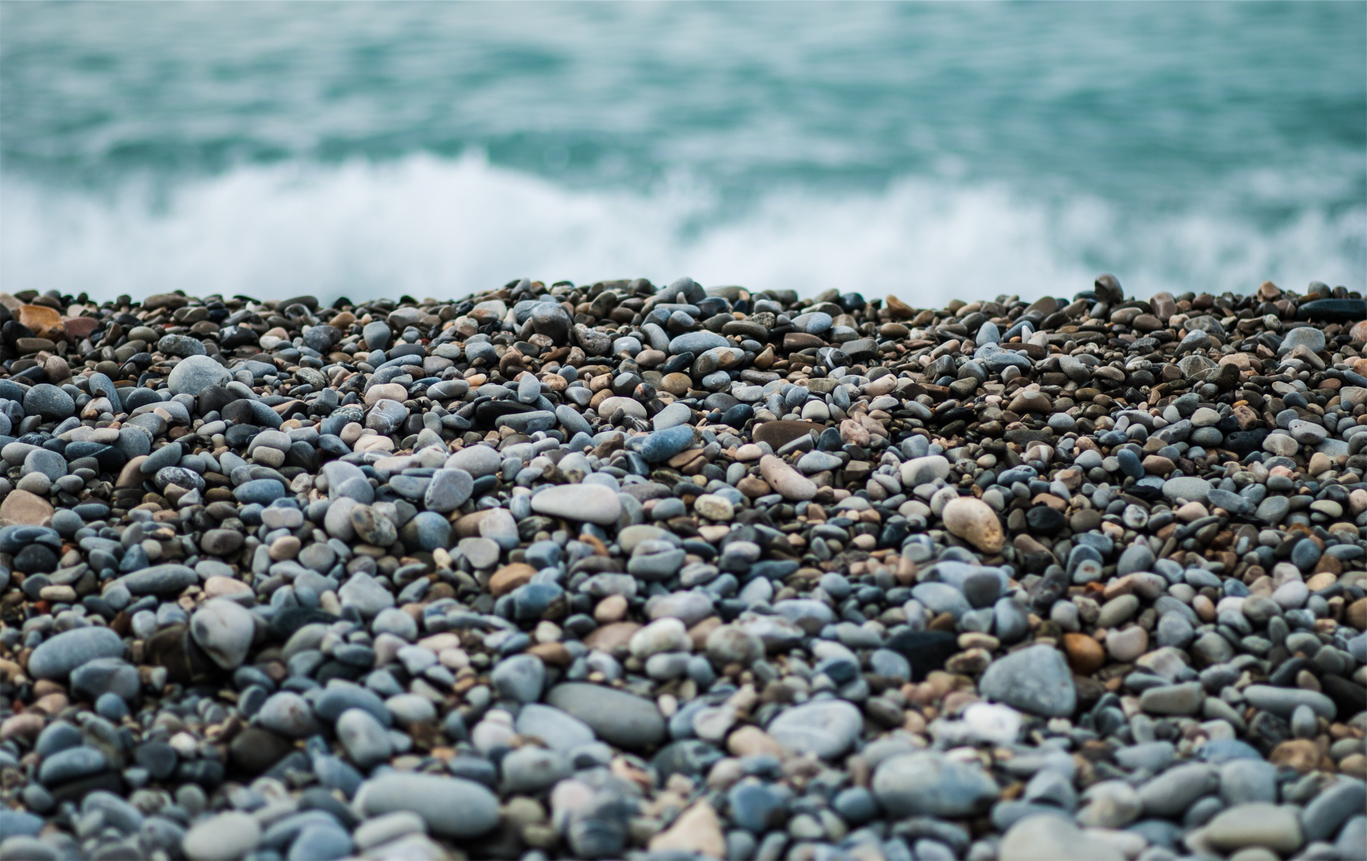
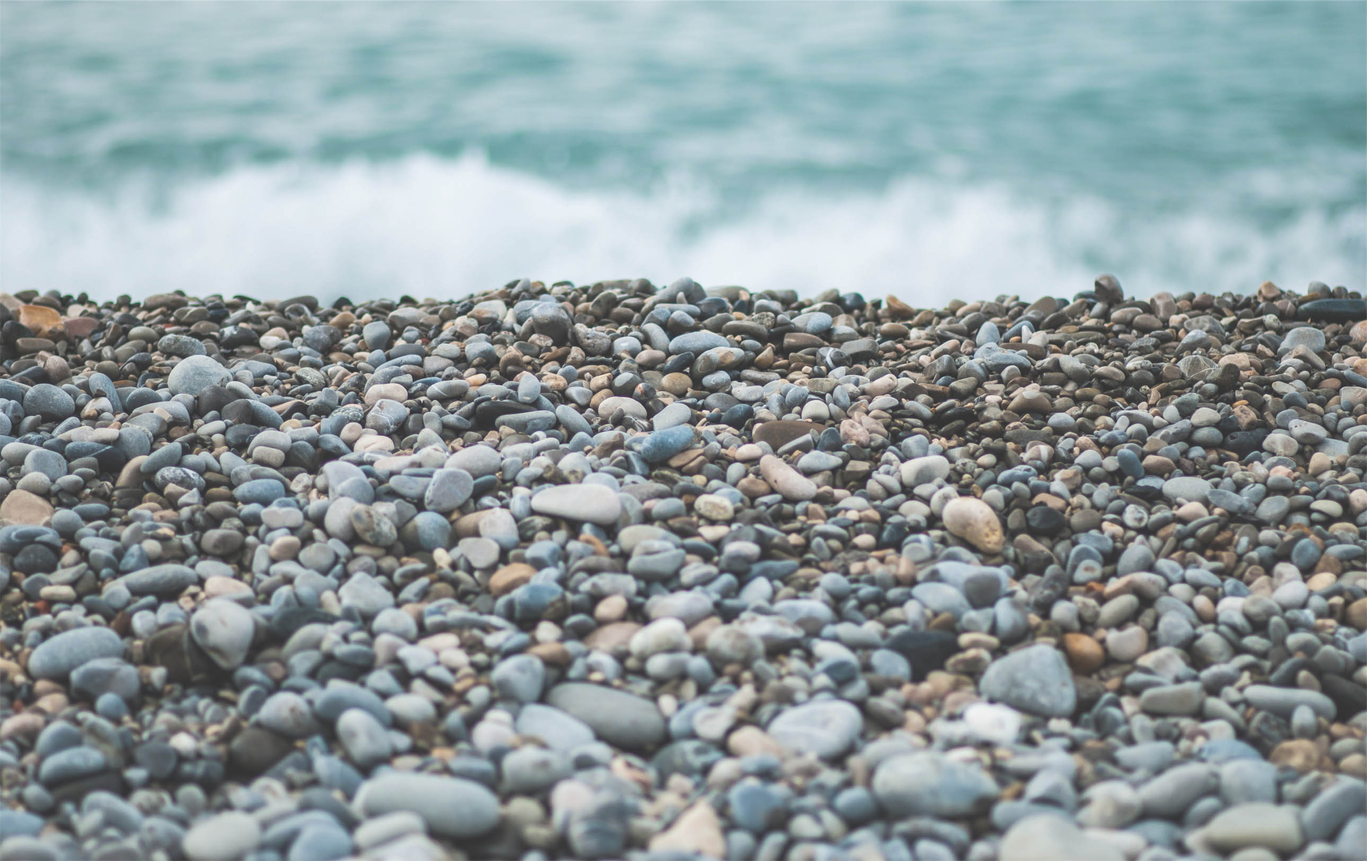
refractor: (css) change opacity of background
lower opacity of background image in photoshop

diff --git a/css/style.css b/css/style.css
@@ -1,1 +1,1 @@
-@font-face{font-family:'iconic-font';src:url('../font/iconic-font.eot?5589718');src:url('../font/iconic-font.eot?5589718#iefix') format('embedded-opentype'),url('../font/iconic-font.woff?5589718') format('woff'),url('../font/iconic-font.ttf?5589718') format('truetype'),url('../font/iconic-font.svg?5589718#iconic-font') format('svg');font-weight:normal;font-style:normal;}[class^="icon-"]:before,[class*=" icon-"]:before{font-family:"iconic-font";font-style:normal;font-weight:normal;speak:none;display:inline-block;text-decoration:inherit;width:1em;margin-right:0.2em;text-align:center;font-variant:normal;text-transform:none;line-height:1em;margin-left:0.2em}.icon-arrow-down:before{content:'\d'}.icon-comment:before{content:'\ce'}.icon-arrow-left:before{content:'\ef'}.icon-search:before{content:'\e801'}.icon-logo-small-frame:before{content:'\e803'}.icon-logo-small-bw:before{content:'\e804'}.icon-logo-long:before{content:'\e805'}.icon-location-pin:before{content:'\e806'}.icon-arrow-right:before{content:'\e807'}.icon-arrow-up:before{content:'\e808'}.icon-exit-circle:before{content:'\e80a'}.icon-exit:before{content:'\e80b'}.icon-headline:before{content:'\e80c'}.icon-light:before{content:'\e80d'}.icon-gears:before{content:'\e80e'}.icon-phone:before{content:'\e80f'}.icon-icon-5:before{content:'\e810'}.icon-point:before{content:'\e811'}.icon-target:before{content:'\e812'}@-moz-viewport{width:device-width;scale:1;}@-ms-viewport{width:device-width;scale:1;}@-o-viewport{width:device-width;scale:1;}@-webkit-viewport{width:device-width;scale:1;}@viewport{width:device-width;scale:1;}html{box-sizing:border-box;-moz-text-size-adjust:100%;-ms-text-size-adjust:100%;-webkit-text-size-adjust:100%;text-size-adjust:100%}*,*:before,*:after{box-sizing:inherit}body{margin:0;padding:0;font-family:'Lato',sans-serif;background-color:#FEFEFE}body.noscript .close-btn,body.noscript .toggle-btn{display:none}.flex-img{display:block;margin:0 auto;width:100%}header{position:fixed;height:5em;width:100%;z-index:100;background-color:#2d3e4f}.header-image{background:url("../images/water.jpg") no-repeat center top;background-size:cover;height:650px;margin-bottom:2em}h1{text-align:center;padding-top:6em;color:#FEFEFE;text-transform:uppercase}.subtitle{text-align:center;color:#FEFEFE;text-transform:uppercase}.contain{padding:0 2.5em}.toggle-btn{color:#FEFEFE;position:absolute;right:1em;top:2em}.list-heading{font-weight:300;font-size:0.75em;color:#FEFEFE;text-transform:uppercase;border-bottom:2px solid #FEFEFE;margin-top:2em}.navigation ul{background-color:#2d3e4f;margin:0;padding:0}.navigation ul li{list-style-type:none}.navigation ul li a{font-weight:300;color:#FEFEFE;text-transform:lowercase;text-decoration:none;display:block;padding-top:0.2em;padding-bottom:0.5em;text-align:center}.navigation ul li a:hover{color:#93A4A7}.toggle-btn,.close-btn{height:70px;width:70px}.toggle-btn span,.close-btn span{text-indent:100%;white-space:nowrap;overflow:hidden;display:block}.toggle-btn i,.close-btn i{padding:0.5em}.close-btn{color:#2d3e4f;margin:1em}.donate-btn{font-family:'Lato',sans-serif;color:#FEFEFE;text-transform:uppercase;text-decoration:none;display:block;text-align:center;margin:2em;padding:0.5em}.donate-btn:hover{color:#93A4A7}.logo{font-size:2.5rem;font-weight:500;color:#58aec4;text-decoration:none;display:block;text-align:center}.logo:hover{color:#FEFEFE}@media only screen and (max-width: 60em){.site-wrapper{position:relative;overflow:hidden;width:100%;z-index:100}.site-wrapper .sliding-canvas{width:100%;height:100%;position:relative;transition:translateX(0);-webkit-transition:all 300ms ease-in-out;-moz-transition:all 300ms ease-in-out;-ms-transition:all 300ms ease-in-out;-o-transition:all 300ms ease-in-out;transition:all 300ms ease-in-out}.site-wrapper[data-state="slide-open"] .sliding-canvas{transform:translateX(-100%)}.site-wrapper[data-state="slide-open"]{overflow:visible}.slide-menu{position:absolute;width:100%;height:100%;top:0;bottom:0;right:-100%}}@media only screen and (min-width: 60em){.toggle-btn,.close-btn{display:none}body.noscript .slide-menu{position:static;right:auto}.list-heading{border-bottom:0;margin-top:0}ul li{font-family:'Lato',sans-serif;font-weight:300;color:#93A4A7;text-transform:lowercase;text-decoration:none;text-align:center;margin-top:0.5em;padding:0.5em 2em;display:inline-block;position:relative;cursor:pointer;transition:all 0.2s}ul li:hover{color:#FEFEFE}ul li ul{padding:0;position:absolute;top:2.5em;left:0;width:150px;display:none;opacity:0;visibility:hidden;-transition:opacity 0.2s}ul li:hover ul{display:block;opacity:1;padding-bottom:1em;visibility:visible;background:#2d3e4f;text-align:left}.donate-btn{float:right;display:inline-block;padding:0.3em 1em;margin-top:1.7em;box-shadow:0 0 0 1.5px #fefefe;transition:all 150ms ease-in-out}.donate-btn:hover{color:#2d3e4f;background-color:#FEFEFE}}h2,h3,h5{text-transform:uppercase;text-align:center;color:#333}figcaption{margin-top:3em;margin-bottom:3em}.iconic{font-size:6em;color:#58aec4;text-decoration:none;display:block;text-align:center}.down{font-size:0.75em;color:#FEFEFE;transform:rotate(180deg)}.buttons{color:#58aec4;display:inline-block;text-decoration:none;text-transform:uppercase;padding:0.5em;margin-bottom:3em;text-align:center;box-shadow:0 0 0 1.5px #58aec4;transition:all 150ms ease-in-out}.buttons:hover{color:#FEFEFE;background-color:#58aec4}.donate h5{color:#58aec4}footer{background-color:#f9f9f9;color:#333334;font-family:'Lato',sans-serif;margin-top:3em}.row{padding-left:0;padding-right:0;display:block}.footer-grid{padding-left:1em;padding-right:1em}footer .footer-grid{padding-top:1.6em;padding-bottom:1.6em;border-top:1px solid #c9c9c9}footer a{color:#a6a6a9;text-decoration:none;-webkit-transition:all 10ms ease-in-out;-moz-transition:all 10ms ease-in-out;-ms-transition:all 10ms ease-in-out;-o-transition:all 10ms ease-in-out;transition:all 10ms ease-in-out}footer a:hover{color:#58aec4}li{line-height:1.6em;display:list-item;text-align:-webkit-match-parent}.text-right{text-align:right}.contact-info{font-size:0.7em;text-transform:uppercase}.contact{padding-bottom:2em;padding-right:0}@media only screen and (min-width: 600px){.row{display:flex;max-width:1440px}.footer-grid{-webkit-flex:1;-ms-flex:1;flex:1;padding:0 2.5em 1em}}.issue-image{background:url("../images/greatlakes-7.jpg") no-repeat center top;background-size:cover;height:650px;margin-bottom:2em}.subtitle-work{text-align:center;color:#FEFEFE;padding:0 2.5em}@media only screen and (min-width: 60em){.subtitle-work{padding:0 10em}}.round{border-radius:450px;max-height:10em;max-width:10em;margin-bottom:2.5em}.programs-image{background:url("../images/greatlakes-27.jpg") no-repeat center top;background-size:cover;height:650px;margin-bottom:2em}.education-image{background:url("../images/greatlakes-53.jpg") no-repeat center top;background-size:cover;height:650px;margin-bottom:2em}form{margin:0 auto;padding:30px;width:400px;height:auto;overflow:hidden;background:rgba(45,62,79,0.9);border-radius:10px}form label{font-size:14px;color:#FEFEFE;cursor:pointer}form label,form input{float:left;clear:both}form input{margin:15px 0;padding:15px 10px;width:100%;outline:none;border:1px solid #bbb;border-radius:20px;display:inline-block;-webkit-box-sizing:border-box;-moz-box-sizing:border-box;box-sizing:border-box;-webkit-transition:0.2s ease all;-moz-transition:0.2s ease all;-ms-transition:0.2s ease all;-o-transition:0.2s ease all;transition:0.2s ease all}form input[type=text]:focus,form input[type="password"]:focus{border-color:#003333}input[type=submit]{padding:15px 50px;width:auto;background:url("http://im51.gulfup.com/rkvDJI.jpg") center repeat #336666;background-size:200px;border:none;color:#FEFEFE;cursor:pointer;display:inline-block;float:right;clear:right;-webkit-transition:0.2s ease all;-moz-transition:0.2s ease all;-ms-transition:0.2s ease all;-o-transition:0.2s ease all;transition:0.2s ease all}input[type=submit]:hover{opacity:0.8}input[type="submit"]:active{opacity:0.4}.forgot,.register{margin:10px;float:left;clear:left;display:inline-block;color:#FEFEFE;text-decoration:none}.forgot:hover,.register:hover{color:#FEFEFE}.login-link{color:#93A4A7;text-decoration:none;margin:10px;float:left;clear:left;display:inline-block}.login-link:hover{color:#58aec4}.nav-jump-spacer{position:absolute;width:10px;height:10px;opacity:0;top:-7.2em}.about,.work,.news{position:relative}.hide{display:none}.login{padding-top:9em}.login-image{background:url("../images/greatlakes-56.jpg");background-size:cover;height:700px}.inline{display:inline-block;width:100%}html{font:normal 100%/1.5 Georgia,serif}@media only screen and (min-width: 60em){html{font-size:110%}}@media only screen and (min-width: 90em){html{font-size:120%}}@media only screen and (min-width: 120em){html{font-size:130%}}h1,h2,h3,h4,h5,h6,p,ul,ol,dl,dd,figure,blockquote,details,hr,fieldset,pre,table{margin:0 0 1.5rem}.yotta{font-size:2.2807rem;line-height:1.3154}.zetta{font-size:2.0273rem;line-height:1.4798}h1,.exa{font-size:1.802rem;line-height:1.6648}h2,.peta{font-size:1.6018rem;line-height:1.8729}h3,.tera{font-size:1.4238rem;line-height:1.0535}h4,.giga{font-size:1.2656rem;line-height:1.1852}h5,.mega{font-size:1.125rem;line-height:1.3333}h6,.kilo{font-size:1rem;line-height:1.5}small,.milli{font-size:0.8889rem;line-height:1.6875}.micro{font-size:0.7901rem;line-height:1.8984}sub,sup{font-size:75%;line-height:1px;position:relative;vertical-align:baseline}sup{top:-0.5em}sub{bottom:-0.25em}.text-left{text-align:left}.text-right{text-align:right}.center-align{text-align:center;max-width:35em;margin:0 auto;padding-bottom:2em}.upper{text-transform:uppercase}.normal{font-weight:normal}.bold{font-weight:bold}.italic{font-style:italic}.push{margin-bottom:1.5rem}.push-none,.push-0{margin-bottom:0}.push-double,.push-2{margin-bottom:3rem}.push-half,.push-1-2{margin-bottom:0.75rem}.push-quarter,.push-1-4{margin-bottom:0.375rem}.pad-top,.pad-t{padding-top:1.5rem}.pad-bottom,.pad-b{padding-bottom:1.5rem}.pad-top-double,.pad-t-2{padding-top:3rem}.pad-bottom-double,.pad-b-2{padding-bottom:3rem}.pad-top-half,.pad-t-1-2{padding-top:0.75rem}.pad-bottom-half,.pad-b-1-2{padding-bottom:0.75rem}.pad-top-quarter,.pad-t-1-4{padding-top:0.375rem}.pad-bottom-quarter,.pad-b-1-4{padding-bottom:0.375rem}.island{padding:1.5rem}.island-double,.island-2{padding:3rem}.island-half,.island-1-2{padding:0.75rem}.island-quarter,.island-1-4{padding:0.375rem}.gutter{padding-left:1.5rem;padding-right:1.5rem}.gutter-double,.gutter-2{padding-left:0.75rem;padding-right:0.75rem}@media only screen and (min-width: 30em){.gutter-double,.gutter-2{padding-left:3rem;padding-right:3rem}}.gutter-half,.gutter-1-2{padding-left:0.75rem;padding-right:0.75rem}.gutter-quarter,.gutter-1-4{padding-left:0.375rem;padding-right:0.375rem}.grid{margin:0;padding:0;letter-spacing:-0.31em;text-rendering:optimizespeed;display:-webkit-flex;-webkit-flex-flow:row wrap;display:-ms-flexbox;-ms-flex-flow:row wrap;display:flex;flex-flow:row wrap}.grid-bottom{-webkit-align-items:flex-end;-ms-align-items:flex-end;align-items:flex-end}.grid-middle{-webkit-align-items:center;-ms-align-items:center;align-items:center}.grid-stretch{-webkit-align-items:stretch;-ms-align-items:stretch;align-items:stretch}.opera-only :-o-prefocus,.grid{word-spacing:-0.43em}.unit{letter-spacing:normal;text-rendering:auto;vertical-align:top;word-spacing:normal;display:inline-block;visibility:visible}.grid-bottom .unit{vertical-align:bottom}.grid-middle .unit{vertical-align:middle}.unit[class*="push-"],.unit[class*="pull-"]{position:relative}.unit-xs-hidden{display:none;visibility:hidden}.unit-xs-centered{margin:0 auto}.unit-xs-1,.xs-1{display:block;visibility:visible;width:100%}.unit-offset-xs-0{margin-left:0}.unit-push-xs-0,.unit-pull-xs-0{left:0}.unit-xs-1-2,.xs-1-2{width:50%}.unit-offset-xs-1-2{margin-left:50%}.unit-push-xs-1-2{left:50%}.unit-pull-xs-1-2{left:-50%}.unit-xs-1-3,.xs-1-3{width:33.3333%}.unit-offset-xs-1-3{margin-left:33.3333%}.unit-push-xs-1-3{left:33.3333%}.unit-pull-xs-1-3{left:-33.3333%}.unit-xs-2-3,.xs-2-3{width:66.6667%}.unit-offset-xs-2-3{margin-left:66.6667%}.unit-push-xs-2-3{left:66.6667%}.unit-pull-xs-2-3{left:-66.6667%}.unit-xs-1-2,.xs-1-2,.unit-xs-1-3,.xs-1-3,.unit-xs-2-3,.xs-2-3{display:inline-block;visibility:visible}@media only screen and (min-width: 25em){.unit-s-hidden{display:none;visibility:hidden}.unit-s-centered{margin:0 auto}.unit-s-1,.s-1{display:block;visibility:visible;width:100%}.unit-offset-s-0{margin-left:0}.unit-push-s-0,.unit-pull-s-0{left:0}.unit-s-1-2,.s-1-2{width:50%}.unit-offset-s-1-2{margin-left:50%}.unit-push-s-1-2{left:50%}.unit-pull-s-1-2{left:-50%}.unit-s-1-3,.s-1-3{width:33.3333%}.unit-offset-s-1-3{margin-left:33.3333%}.unit-push-s-1-3{left:33.3333%}.unit-pull-s-1-3{left:-33.3333%}.unit-s-2-3,.s-2-3{width:66.6667%}.unit-offset-s-2-3{margin-left:66.6667%}.unit-push-s-2-3{left:66.6667%}.unit-pull-s-2-3{left:-66.6667%}.unit-s-1-2,.s-1-2,.unit-s-1-3,.s-1-3,.unit-s-2-3,.s-2-3{display:inline-block;visibility:visible}}@media only screen and (min-width: 38em){.unit-m-hidden{display:none;visibility:hidden}.unit-m-centered{margin:0 auto}.unit-m-1,.m-1{display:block;visibility:visible;width:100%}.unit-offset-m-0{margin-left:0}.unit-push-m-0,.unit-pull-m-0{left:0}.unit-m-1-2,.m-1-2{width:50%}.unit-offset-m-1-2{margin-left:50%}.unit-push-m-1-2{left:50%}.unit-pull-m-1-2{left:-50%}.unit-m-1-3,.m-1-3{width:33.3333%}.unit-offset-m-1-3{margin-left:33.3333%}.unit-push-m-1-3{left:33.3333%}.unit-pull-m-1-3{left:-33.3333%}.unit-m-2-3,.m-2-3{width:66.6667%}.unit-offset-m-2-3{margin-left:66.6667%}.unit-push-m-2-3{left:66.6667%}.unit-pull-m-2-3{left:-66.6667%}.unit-m-1-2,.m-1-2,.unit-m-1-3,.m-1-3,.unit-m-2-3,.m-2-3{display:inline-block;visibility:visible}}@media only screen and (min-width: 60em){.unit-l-hidden{display:none;visibility:hidden}.unit-l-centered{margin:0 auto}.unit-l-1,.l-1{display:block;visibility:visible;width:100%}.unit-offset-l-0{margin-left:0}.unit-push-l-0,.unit-pull-l-0{left:0}.unit-l-1-2,.l-1-2{width:50%}.unit-offset-l-1-2{margin-left:50%}.unit-push-l-1-2{left:50%}.unit-pull-l-1-2{left:-50%}.unit-l-1-3,.l-1-3{width:33.3333%}.unit-offset-l-1-3{margin-left:33.3333%}.unit-push-l-1-3{left:33.3333%}.unit-pull-l-1-3{left:-33.3333%}.unit-l-2-3,.l-2-3{width:66.6667%}.unit-offset-l-2-3{margin-left:66.6667%}.unit-push-l-2-3{left:66.6667%}.unit-pull-l-2-3{left:-66.6667%}.unit-l-1-4,.l-1-4{width:25%}.unit-offset-l-1-4{margin-left:25%}.unit-push-l-1-4{left:25%}.unit-pull-l-1-4{left:-25%}.unit-l-3-4,.l-3-4{width:75%}.unit-offset-l-3-4{margin-left:75%}.unit-push-l-3-4{left:75%}.unit-pull-l-3-4{left:-75%}.unit-l-1-2,.l-1-2,.unit-l-1-3,.l-1-3,.unit-l-2-3,.l-2-3,.unit-l-1-4,.l-1-4,.unit-l-3-4,.l-3-4{display:inline-block;visibility:visible}}.unit-content-distribute{display:-ms-flexbox;display:-webkit-flex;display:flex;-ms-flex-direction:column;-webkit-flex-direction:column;flex-direction:column;-ms-flex-pack:justify;-webkit-justify-content:space-between;justify-content:space-between;-ms-flex-align:center;-webkit-align-items:center;align-items:center}.content-fill{-ms-flex-grow:2;-webkit-flex-grow:2;flex-grow:2}.content-shrink{-ms-align-self:center;-webkit-align-self:center;align-self:center}
+@font-face{font-family:'iconic-font';src:url('../font/iconic-font.eot?5589718');src:url('../font/iconic-font.eot?5589718#iefix') format('embedded-opentype'),url('../font/iconic-font.woff?5589718') format('woff'),url('../font/iconic-font.ttf?5589718') format('truetype'),url('../font/iconic-font.svg?5589718#iconic-font') format('svg');font-weight:normal;font-style:normal;}[class^="icon-"]:before,[class*=" icon-"]:before{font-family:"iconic-font";font-style:normal;font-weight:normal;speak:none;display:inline-block;text-decoration:inherit;width:1em;margin-right:0.2em;text-align:center;font-variant:normal;text-transform:none;line-height:1em;margin-left:0.2em}.icon-arrow-down:before{content:'\d'}.icon-comment:before{content:'\ce'}.icon-arrow-left:before{content:'\ef'}.icon-search:before{content:'\e801'}.icon-logo-small-frame:before{content:'\e803'}.icon-logo-small-bw:before{content:'\e804'}.icon-logo-long:before{content:'\e805'}.icon-location-pin:before{content:'\e806'}.icon-arrow-right:before{content:'\e807'}.icon-arrow-up:before{content:'\e808'}.icon-exit-circle:before{content:'\e80a'}.icon-exit:before{content:'\e80b'}.icon-headline:before{content:'\e80c'}.icon-light:before{content:'\e80d'}.icon-gears:before{content:'\e80e'}.icon-phone:before{content:'\e80f'}.icon-icon-5:before{content:'\e810'}.icon-point:before{content:'\e811'}.icon-target:before{content:'\e812'}@-moz-viewport{width:device-width;scale:1;}@-ms-viewport{width:device-width;scale:1;}@-o-viewport{width:device-width;scale:1;}@-webkit-viewport{width:device-width;scale:1;}@viewport{width:device-width;scale:1;}html{box-sizing:border-box;-moz-text-size-adjust:100%;-ms-text-size-adjust:100%;-webkit-text-size-adjust:100%;text-size-adjust:100%}*,*:before,*:after{box-sizing:inherit}body{margin:0;padding:0;font-family:'Lato',sans-serif;background-color:#FEFEFE}body.noscript .close-btn,body.noscript .toggle-btn{display:none}.flex-img{display:block;margin:0 auto;width:100%}header{position:fixed;height:5em;width:100%;z-index:100;background-color:#2d3e4f}.header-image{background:url("../images/water.jpg") no-repeat center top;background-size:cover;height:650px;margin-bottom:2em}h1{text-align:center;padding-top:6em;color:#FEFEFE;text-transform:uppercase}.subtitle{text-align:center;color:#FEFEFE;text-transform:uppercase}.contain{padding:0 2.5em}.toggle-btn{color:#FEFEFE;position:absolute;right:1em;top:2em}.list-heading{font-weight:300;font-size:0.75em;color:#FEFEFE;text-transform:uppercase;border-bottom:2px solid #FEFEFE;margin-top:2em}.navigation ul{background-color:#2d3e4f;margin:0;padding:0}.navigation ul li{list-style-type:none}.navigation ul li a{font-weight:300;color:#FEFEFE;text-transform:lowercase;text-decoration:none;display:block;padding-top:0.2em;padding-bottom:0.5em;text-align:center}.navigation ul li a:hover{color:#93A4A7}.toggle-btn,.close-btn{height:70px;width:70px}.toggle-btn span,.close-btn span{text-indent:100%;white-space:nowrap;overflow:hidden;display:block}.toggle-btn i,.close-btn i{padding:0.5em}.close-btn{color:#2d3e4f;margin:1em}.donate-btn{font-family:'Lato',sans-serif;color:#FEFEFE;text-transform:uppercase;text-decoration:none;display:block;text-align:center;margin:2em;padding:0.5em}.donate-btn:hover{color:#93A4A7}.logo{font-size:2.5rem;font-weight:500;color:#58aec4;text-decoration:none;display:block;text-align:center}.logo:hover{color:#FEFEFE}@media only screen and (max-width: 60em){.site-wrapper{position:relative;overflow:hidden;width:100%;z-index:100}.site-wrapper .sliding-canvas{width:100%;height:100%;position:relative;transition:translateX(0);-webkit-transition:all 300ms ease-in-out;-moz-transition:all 300ms ease-in-out;-ms-transition:all 300ms ease-in-out;-o-transition:all 300ms ease-in-out;transition:all 300ms ease-in-out}.site-wrapper[data-state="slide-open"] .sliding-canvas{transform:translateX(-100%)}.site-wrapper[data-state="slide-open"]{overflow:visible}.slide-menu{position:absolute;width:100%;height:100%;top:0;bottom:0;right:-100%}}@media only screen and (min-width: 60em){.toggle-btn,.close-btn{display:none}body.noscript .slide-menu{position:static;right:auto}.list-heading{border-bottom:0;margin-top:0}ul li{font-family:'Lato',sans-serif;font-weight:300;color:#93A4A7;text-transform:lowercase;text-decoration:none;text-align:center;margin-top:0.5em;padding:0.5em 2em;display:inline-block;position:relative;cursor:pointer;transition:all 0.2s}ul li:hover{color:#FEFEFE}ul li ul{padding:0;position:absolute;top:2.5em;left:0;width:150px;display:none;opacity:0;visibility:hidden;-transition:opacity 0.2s}ul li:hover ul{display:block;opacity:1;padding-bottom:1em;visibility:visible;background:#2d3e4f;text-align:left}.donate-btn{float:right;display:inline-block;padding:0.3em 1em;margin-top:1.7em;box-shadow:0 0 0 1.5px #fefefe;transition:all 150ms ease-in-out}.donate-btn:hover{color:#2d3e4f;background-color:#FEFEFE}}h2,h3,h5{text-transform:uppercase;text-align:center;color:#333}figcaption{margin-top:3em;margin-bottom:3em}.iconic{font-size:6em;color:#58aec4;text-decoration:none;display:block;text-align:center}.down{font-size:0.75em;color:#FEFEFE;transform:rotate(180deg)}.buttons{color:#58aec4;display:inline-block;text-decoration:none;text-transform:uppercase;padding:0.5em;margin-bottom:3em;text-align:center;box-shadow:0 0 0 1.5px #58aec4;transition:all 150ms ease-in-out}.buttons:hover{color:#FEFEFE;background-color:#58aec4}.donate h5{color:#58aec4}footer{background-color:#f9f9f9;color:#333334;font-family:'Lato',sans-serif;margin-top:3em}.row{padding-left:0;padding-right:0;display:block}.footer-grid{padding-left:1em;padding-right:1em}footer .footer-grid{padding-top:1.6em;padding-bottom:1.6em;border-top:1px solid #c9c9c9}footer a{color:#a6a6a9;text-decoration:none;-webkit-transition:all 10ms ease-in-out;-moz-transition:all 10ms ease-in-out;-ms-transition:all 10ms ease-in-out;-o-transition:all 10ms ease-in-out;transition:all 10ms ease-in-out}footer a:hover{color:#58aec4}li{line-height:1.6em;display:list-item;text-align:-webkit-match-parent}.text-right{text-align:right}.contact-info{font-size:0.7em;text-transform:uppercase}.contact{padding-bottom:2em;padding-right:0}@media only screen and (min-width: 600px){.row{display:flex;max-width:1440px}.footer-grid{-webkit-flex:1;-ms-flex:1;flex:1;padding:0 2.5em 1em}}.issue-image{background:url("../images/greatlakes-7.jpg") no-repeat center top;background-size:cover;height:650px;margin-bottom:2em}.subtitle-work{text-align:center;color:#FEFEFE;padding:0 2.5em}@media only screen and (min-width: 60em){.subtitle-work{padding:0 10em}}.round{border-radius:450px;max-height:10em;max-width:10em;margin-bottom:2.5em}.programs-image{background:url("../images/greatlakes-27.jpg") no-repeat center top;background-size:cover;height:650px;margin-bottom:2em}.education-image{background:url("../images/greatlakes-53.jpg") no-repeat center top;background-size:cover;height:650px;margin-bottom:2em}form{margin:0 auto;padding:30px;width:400px;height:auto;overflow:hidden;background:rgba(45,62,79,0.9);border-radius:10px}form label{font-size:14px;color:#FEFEFE;cursor:pointer}form label,form input{float:left;clear:both}form input{margin:15px 0;padding:15px 10px;width:100%;outline:none;border:1px solid #bbb;border-radius:20px;display:inline-block;-webkit-box-sizing:border-box;-moz-box-sizing:border-box;box-sizing:border-box;-webkit-transition:0.2s ease all;-moz-transition:0.2s ease all;-ms-transition:0.2s ease all;-o-transition:0.2s ease all;transition:0.2s ease all}form input[type=text]:focus,form input[type="password"]:focus{border-color:#003333}input[type=submit]{padding:15px 50px;width:auto;background:url("http://im51.gulfup.com/rkvDJI.jpg") center repeat #336666;background-size:200px;border:none;color:#FEFEFE;cursor:pointer;display:inline-block;float:right;clear:right;-webkit-transition:0.2s ease all;-moz-transition:0.2s ease all;-ms-transition:0.2s ease all;-o-transition:0.2s ease all;transition:0.2s ease all}input[type=submit]:hover{opacity:0.8}input[type="submit"]:active{opacity:0.4}.forgot,.register{margin:10px;float:left;clear:left;display:inline-block;color:#FEFEFE;text-decoration:none}.forgot:hover,.register:hover{color:#FEFEFE}.login-link{color:#93A4A7;text-decoration:none;margin:3px;float:left;clear:left;display:inline-block}.login-link:hover{color:#58aec4}.nav-jump-spacer{position:absolute;width:10px;height:10px;opacity:0;top:-7.2em}.about,.work,.news{position:relative}.hide{display:none}.login{padding-top:9em}.login-image{background:url("../images/greatlakes-56.jpg");background-size:cover;height:700px}.inline{display:inline-block;width:100%}html{font:normal 100%/1.5 Georgia,serif}@media only screen and (min-width: 60em){html{font-size:110%}}@media only screen and (min-width: 90em){html{font-size:120%}}@media only screen and (min-width: 120em){html{font-size:130%}}h1,h2,h3,h4,h5,h6,p,ul,ol,dl,dd,figure,blockquote,details,hr,fieldset,pre,table{margin:0 0 1.5rem}.yotta{font-size:2.2807rem;line-height:1.3154}.zetta{font-size:2.0273rem;line-height:1.4798}h1,.exa{font-size:1.802rem;line-height:1.6648}h2,.peta{font-size:1.6018rem;line-height:1.8729}h3,.tera{font-size:1.4238rem;line-height:1.0535}h4,.giga{font-size:1.2656rem;line-height:1.1852}h5,.mega{font-size:1.125rem;line-height:1.3333}h6,.kilo{font-size:1rem;line-height:1.5}small,.milli{font-size:0.8889rem;line-height:1.6875}.micro{font-size:0.7901rem;line-height:1.8984}sub,sup{font-size:75%;line-height:1px;position:relative;vertical-align:baseline}sup{top:-0.5em}sub{bottom:-0.25em}.text-left{text-align:left}.text-right{text-align:right}.center-align{text-align:center;max-width:35em;margin:0 auto;padding-bottom:2em}.upper{text-transform:uppercase}.normal{font-weight:normal}.bold{font-weight:bold}.italic{font-style:italic}.push{margin-bottom:1.5rem}.push-none,.push-0{margin-bottom:0}.push-double,.push-2{margin-bottom:3rem}.push-half,.push-1-2{margin-bottom:0.75rem}.push-quarter,.push-1-4{margin-bottom:0.375rem}.pad-top,.pad-t{padding-top:1.5rem}.pad-bottom,.pad-b{padding-bottom:1.5rem}.pad-top-double,.pad-t-2{padding-top:3rem}.pad-bottom-double,.pad-b-2{padding-bottom:3rem}.pad-top-half,.pad-t-1-2{padding-top:0.75rem}.pad-bottom-half,.pad-b-1-2{padding-bottom:0.75rem}.pad-top-quarter,.pad-t-1-4{padding-top:0.375rem}.pad-bottom-quarter,.pad-b-1-4{padding-bottom:0.375rem}.island{padding:1.5rem}.island-double,.island-2{padding:3rem}.island-half,.island-1-2{padding:0.75rem}.island-quarter,.island-1-4{padding:0.375rem}.gutter{padding-left:1.5rem;padding-right:1.5rem}.gutter-double,.gutter-2{padding-left:0.75rem;padding-right:0.75rem}@media only screen and (min-width: 30em){.gutter-double,.gutter-2{padding-left:3rem;padding-right:3rem}}.gutter-half,.gutter-1-2{padding-left:0.75rem;padding-right:0.75rem}.gutter-quarter,.gutter-1-4{padding-left:0.375rem;padding-right:0.375rem}.grid{margin:0;padding:0;letter-spacing:-0.31em;text-rendering:optimizespeed;display:-webkit-flex;-webkit-flex-flow:row wrap;display:-ms-flexbox;-ms-flex-flow:row wrap;display:flex;flex-flow:row wrap}.grid-bottom{-webkit-align-items:flex-end;-ms-align-items:flex-end;align-items:flex-end}.grid-middle{-webkit-align-items:center;-ms-align-items:center;align-items:center}.grid-stretch{-webkit-align-items:stretch;-ms-align-items:stretch;align-items:stretch}.opera-only :-o-prefocus,.grid{word-spacing:-0.43em}.unit{letter-spacing:normal;text-rendering:auto;vertical-align:top;word-spacing:normal;display:inline-block;visibility:visible}.grid-bottom .unit{vertical-align:bottom}.grid-middle .unit{vertical-align:middle}.unit[class*="push-"],.unit[class*="pull-"]{position:relative}.unit-xs-hidden{display:none;visibility:hidden}.unit-xs-centered{margin:0 auto}.unit-xs-1,.xs-1{display:block;visibility:visible;width:100%}.unit-offset-xs-0{margin-left:0}.unit-push-xs-0,.unit-pull-xs-0{left:0}.unit-xs-1-2,.xs-1-2{width:50%}.unit-offset-xs-1-2{margin-left:50%}.unit-push-xs-1-2{left:50%}.unit-pull-xs-1-2{left:-50%}.unit-xs-1-3,.xs-1-3{width:33.3333%}.unit-offset-xs-1-3{margin-left:33.3333%}.unit-push-xs-1-3{left:33.3333%}.unit-pull-xs-1-3{left:-33.3333%}.unit-xs-2-3,.xs-2-3{width:66.6667%}.unit-offset-xs-2-3{margin-left:66.6667%}.unit-push-xs-2-3{left:66.6667%}.unit-pull-xs-2-3{left:-66.6667%}.unit-xs-1-2,.xs-1-2,.unit-xs-1-3,.xs-1-3,.unit-xs-2-3,.xs-2-3{display:inline-block;visibility:visible}@media only screen and (min-width: 25em){.unit-s-hidden{display:none;visibility:hidden}.unit-s-centered{margin:0 auto}.unit-s-1,.s-1{display:block;visibility:visible;width:100%}.unit-offset-s-0{margin-left:0}.unit-push-s-0,.unit-pull-s-0{left:0}.unit-s-1-2,.s-1-2{width:50%}.unit-offset-s-1-2{margin-left:50%}.unit-push-s-1-2{left:50%}.unit-pull-s-1-2{left:-50%}.unit-s-1-3,.s-1-3{width:33.3333%}.unit-offset-s-1-3{margin-left:33.3333%}.unit-push-s-1-3{left:33.3333%}.unit-pull-s-1-3{left:-33.3333%}.unit-s-2-3,.s-2-3{width:66.6667%}.unit-offset-s-2-3{margin-left:66.6667%}.unit-push-s-2-3{left:66.6667%}.unit-pull-s-2-3{left:-66.6667%}.unit-s-1-2,.s-1-2,.unit-s-1-3,.s-1-3,.unit-s-2-3,.s-2-3{display:inline-block;visibility:visible}}@media only screen and (min-width: 38em){.unit-m-hidden{display:none;visibility:hidden}.unit-m-centered{margin:0 auto}.unit-m-1,.m-1{display:block;visibility:visible;width:100%}.unit-offset-m-0{margin-left:0}.unit-push-m-0,.unit-pull-m-0{left:0}.unit-m-1-2,.m-1-2{width:50%}.unit-offset-m-1-2{margin-left:50%}.unit-push-m-1-2{left:50%}.unit-pull-m-1-2{left:-50%}.unit-m-1-3,.m-1-3{width:33.3333%}.unit-offset-m-1-3{margin-left:33.3333%}.unit-push-m-1-3{left:33.3333%}.unit-pull-m-1-3{left:-33.3333%}.unit-m-2-3,.m-2-3{width:66.6667%}.unit-offset-m-2-3{margin-left:66.6667%}.unit-push-m-2-3{left:66.6667%}.unit-pull-m-2-3{left:-66.6667%}.unit-m-1-2,.m-1-2,.unit-m-1-3,.m-1-3,.unit-m-2-3,.m-2-3{display:inline-block;visibility:visible}}@media only screen and (min-width: 60em){.unit-l-hidden{display:none;visibility:hidden}.unit-l-centered{margin:0 auto}.unit-l-1,.l-1{display:block;visibility:visible;width:100%}.unit-offset-l-0{margin-left:0}.unit-push-l-0,.unit-pull-l-0{left:0}.unit-l-1-2,.l-1-2{width:50%}.unit-offset-l-1-2{margin-left:50%}.unit-push-l-1-2{left:50%}.unit-pull-l-1-2{left:-50%}.unit-l-1-3,.l-1-3{width:33.3333%}.unit-offset-l-1-3{margin-left:33.3333%}.unit-push-l-1-3{left:33.3333%}.unit-pull-l-1-3{left:-33.3333%}.unit-l-2-3,.l-2-3{width:66.6667%}.unit-offset-l-2-3{margin-left:66.6667%}.unit-push-l-2-3{left:66.6667%}.unit-pull-l-2-3{left:-66.6667%}.unit-l-1-4,.l-1-4{width:25%}.unit-offset-l-1-4{margin-left:25%}.unit-push-l-1-4{left:25%}.unit-pull-l-1-4{left:-25%}.unit-l-3-4,.l-3-4{width:75%}.unit-offset-l-3-4{margin-left:75%}.unit-push-l-3-4{left:75%}.unit-pull-l-3-4{left:-75%}.unit-l-1-2,.l-1-2,.unit-l-1-3,.l-1-3,.unit-l-2-3,.l-2-3,.unit-l-1-4,.l-1-4,.unit-l-3-4,.l-3-4{display:inline-block;visibility:visible}}.unit-content-distribute{display:-ms-flexbox;display:-webkit-flex;display:flex;-ms-flex-direction:column;-webkit-flex-direction:column;flex-direction:column;-ms-flex-pack:justify;-webkit-justify-content:space-between;justify-content:space-between;-ms-flex-align:center;-webkit-align-items:center;align-items:center}.content-fill{-ms-flex-grow:2;-webkit-flex-grow:2;flex-grow:2}.content-shrink{-ms-align-self:center;-webkit-align-self:center;align-self:center}

diff --git a/login.html b/login.html
@@ -9,7 +9,7 @@ layout: default
 
 		<h2>Join Our Mission</h2>
 
-			<h3> LOG IN</h3>
+			<p> LOG IN</p>
 
 		<label for="username">Username</label>
 		<input type="text" id="username" name="username" placeholder="Type in your username.." autocomplete="off" required />

diff --git a/scss/_mixins.scss b/scss/_mixins.scss
@@ -43,7 +43,7 @@
 @mixin login-link($text-color, $hover-color){
   color: $text-color;
   text-decoration: none;
-  margin:10px;
+  margin: 3px;
   float:left;
   clear:left;
   display:inline-block;

diff --git a/scss/components/_main.scss b/scss/components/_main.scss
@@ -612,8 +612,7 @@ input[type="submit"]:active {
 .login-image{
   background: url("../images/greatlakes-56.jpg");
   background-size: cover;
-  height: 700px
-
+  height: 700px;
 }
 
 .inline{
